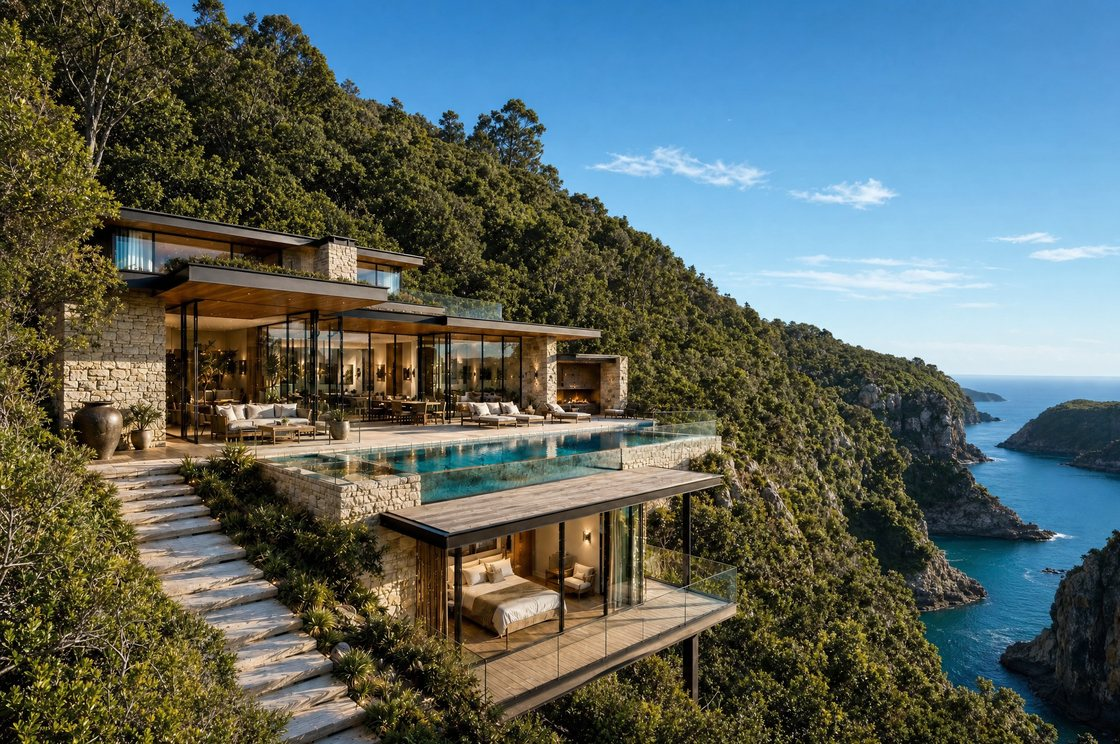
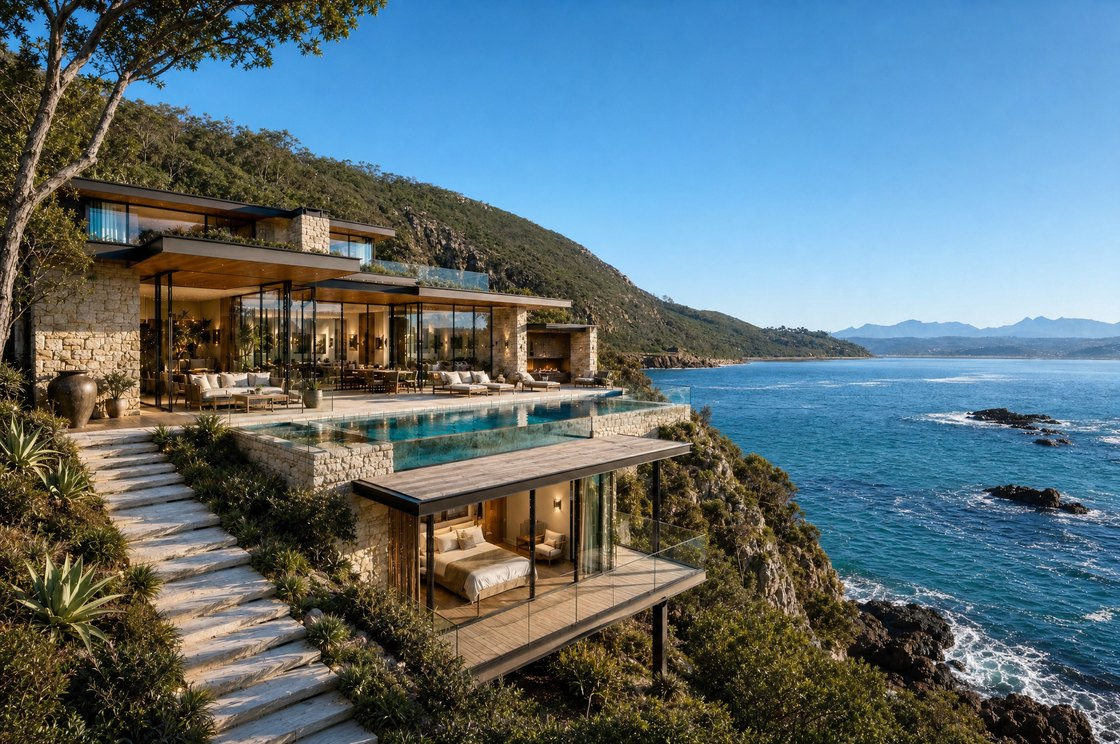
Drop the reference photos, and widen the water at the Knysna Heads
Two corrections from Tarryn.

The real photographs are out. They sat beside the renders but were not shot
from the same place or angle, so they read as a third image rather than as
evidence, and they made the comparison harder to see rather than easier. Two
images per property now: theirs and ours.

Knysna is re-rendered. The channel was far too narrow - the Heads open into a
wide lagoon mouth, and the first version had it as a tight inlet. Rebuilt
against a photograph of the real Heads so the bay now opens out with the lagoon
and the mountains behind it.

diff --git a/public/renders/index.html b/public/renders/index.html
@@ -48,12 +48,11 @@
     font-size:clamp(1.35rem,2.5vw,1.75rem); margin:0 0 1.1rem; color:var(--onyx);
     border-bottom:1px solid var(--line); padding-bottom:0.7rem;
   }
-  .row { display:grid; grid-template-columns:1fr; gap:1rem; }
-  @media (min-width:900px) { .row { grid-template-columns:repeat(3,1fr); } }
+  .row { display:grid; grid-template-columns:1fr; gap:1.1rem; }
+  @media (min-width:820px) { .row { grid-template-columns:1fr 1fr; } }
 
   .col { margin:0; display:flex; flex-direction:column; gap:0.55rem; }
   .col img { display:block; width:100%; height:auto; border:1px solid var(--line); background:#000; }
-  .col--real img { opacity:0.94; }
   .col--ours img { border-color:var(--gold); }
 
   figcaption { font-size:0.82rem; color:var(--stone); line-height:1.45; }
@@ -108,8 +107,7 @@
     </p>
     <p class="lede">
       So we have adjusted each image. <strong>The houses are untouched.</strong> Only the landscape
-      around them has changed, to the plants, rock, water and light that are actually there. Each
-      one below sits beside a real photograph of the place, so you can judge it for yourself.
+      around them has changed, to the plants, rock, water and light that are actually there.
     </p>
 
     <div class="ask">
@@ -129,14 +127,6 @@
     <article class="prop">
       <h2>George Mountain Retreat</h2>
       <div class="row">
-        <figure class="col col--real">
-          <img src="img/dr-098-george-mountain-retreat-real.jpg" alt="The Outeniqua range above George" loading="lazy" />
-          <figcaption>
-            <span class="label label--real">The place</span>
-            The Outeniqua range above George
-            <span class="credit">Photograph: Bob Adams from Amanzimtoti, South Africa, CC BY-SA 2.0, via <a href="https://commons.wikimedia.org/wiki/File:Outeniqua_mountains_(15888233442).jpg">Wikimedia Commons</a></span>
-          </figcaption>
-        </figure>
         <figure class="col">
           <img src="img/dr-098-george-mountain-retreat-theirs.jpg" alt="George Mountain Retreat, the original render" loading="lazy" />
           <figcaption><span class="label">As sent</span>Your render</figcaption>
@@ -155,14 +145,6 @@
     <article class="prop">
       <h2>Pezula Ridge Residence</h2>
       <div class="row">
-        <figure class="col col--real">
-          <img src="img/dr-156-pezula-ridge-residence-real.jpg" alt="The coast below Pezula, Knysna" loading="lazy" />
-          <figcaption>
-            <span class="label label--real">The place</span>
-            The coast below Pezula, Knysna
-            <span class="credit">Photograph: Ad Meskens, CC BY-SA 4.0, via <a href="https://commons.wikimedia.org/wiki/File:Knysna_Heads_09.jpg">Wikimedia Commons</a></span>
-          </figcaption>
-        </figure>
         <figure class="col">
           <img src="img/dr-156-pezula-ridge-residence-theirs.jpg" alt="Pezula Ridge Residence, the original render" loading="lazy" />
           <figcaption><span class="label">As sent</span>Your render</figcaption>
@@ -181,14 +163,6 @@
     <article class="prop">
       <h2>Mossel Bay Cliff House</h2>
       <div class="row">
-        <figure class="col col--real">
-          <img src="img/dr-141-mossel-bay-cliff-house-real.jpg" alt="The coast at Pinnacle Point, Mossel Bay" loading="lazy" />
-          <figcaption>
-            <span class="label label--real">The place</span>
-            The coast at Pinnacle Point, Mossel Bay
-            <span class="credit">Photograph: Satdeep Gill, CC BY-SA 4.0, via <a href="https://commons.wikimedia.org/wiki/File:A_view_from_Pinnacle_Point,_Mossel_Bay,_South_Africa.jpg">Wikimedia Commons</a></span>
-          </figcaption>
-        </figure>
         <figure class="col">
           <img src="img/dr-141-mossel-bay-cliff-house-theirs.jpg" alt="Mossel Bay Cliff House, the original render" loading="lazy" />
           <figcaption><span class="label">As sent</span>Your render</figcaption>
@@ -207,14 +181,6 @@
     <article class="prop">
       <h2>Knysna Headlands Estate</h2>
       <div class="row">
-        <figure class="col col--real">
-          <img src="img/dr-204-knysna-headlands-estate-real.jpg" alt="The Knysna Heads" loading="lazy" />
-          <figcaption>
-            <span class="label label--real">The place</span>
-            The Knysna Heads
-            <span class="credit">Photograph: Ad Meskens, CC BY-SA 4.0, via <a href="https://commons.wikimedia.org/wiki/File:Knysna_Heads_01.jpg">Wikimedia Commons</a></span>
-          </figcaption>
-        </figure>
         <figure class="col">
           <img src="img/dr-204-knysna-headlands-estate-theirs.jpg" alt="Knysna Headlands Estate, the original render" loading="lazy" />
           <figcaption><span class="label">As sent</span>Your render</figcaption>
@@ -225,7 +191,7 @@
         </figure>
       </div>
       <div class="notes">
-        <p><span class="k">What changed</span>The gum trees have gone. The slope is now dense indigenous forest falling to sandstone cliffs at the lagoon mouth.</p>
+        <p><span class="k">What changed</span>The gum trees have gone and the slope is now dense indigenous forest falling to sandstone cliffs. The water is the bigger correction: the channel at the Heads is far wider than the first version had it, so the bay now opens out properly with the lagoon and the mountains beyond.</p>
         <p><span class="k">What stayed</span>The house, the pool, the steps and the lower suite are unchanged.</p>
       </div>
     </article>
@@ -233,14 +199,6 @@
     <article class="prop">
       <h2>Wilderness Dune Residence</h2>
       <div class="row">
-        <figure class="col col--real">
-          <img src="img/dr-063-wilderness-dune-residence-real.jpg" alt="Wilderness beach from the pass" loading="lazy" />
-          <figcaption>
-            <span class="label label--real">The place</span>
-            Wilderness beach from the pass
-            <span class="credit">Photograph: ilf_, CC0, via <a href="https://commons.wikimedia.org/wiki/File:Wilderness_(27185222988).jpg">Wikimedia Commons</a></span>
-          </figcaption>
-        </figure>
         <figure class="col">
           <img src="img/dr-063-wilderness-dune-residence-theirs.jpg" alt="Wilderness Dune Residence, the original render" loading="lazy" />
           <figcaption><span class="label">As sent</span>Your render</figcaption>
@@ -259,14 +217,6 @@
     <article class="prop">
       <h2>Plettenberg Beachfront</h2>
       <div class="row">
-        <figure class="col col--real">
-          <img src="img/dr-187-plettenberg-beachfront-real.jpg" alt="Robberg across Plettenberg Bay" loading="lazy" />
-          <figcaption>
-            <span class="label label--real">The place</span>
-            Robberg across Plettenberg Bay
-            <span class="credit">Photograph: Ad Meskens, CC BY-SA 4.0, via <a href="https://commons.wikimedia.org/wiki/File:Plettenberg_Bay_Beach_11.jpg">Wikimedia Commons</a></span>
-          </figcaption>
-        </figure>
         <figure class="col">
           <img src="img/dr-187-plettenberg-beachfront-theirs.jpg" alt="Plettenberg Beachfront, the original render" loading="lazy" />
           <figcaption><span class="label">As sent</span>Your render</figcaption>
